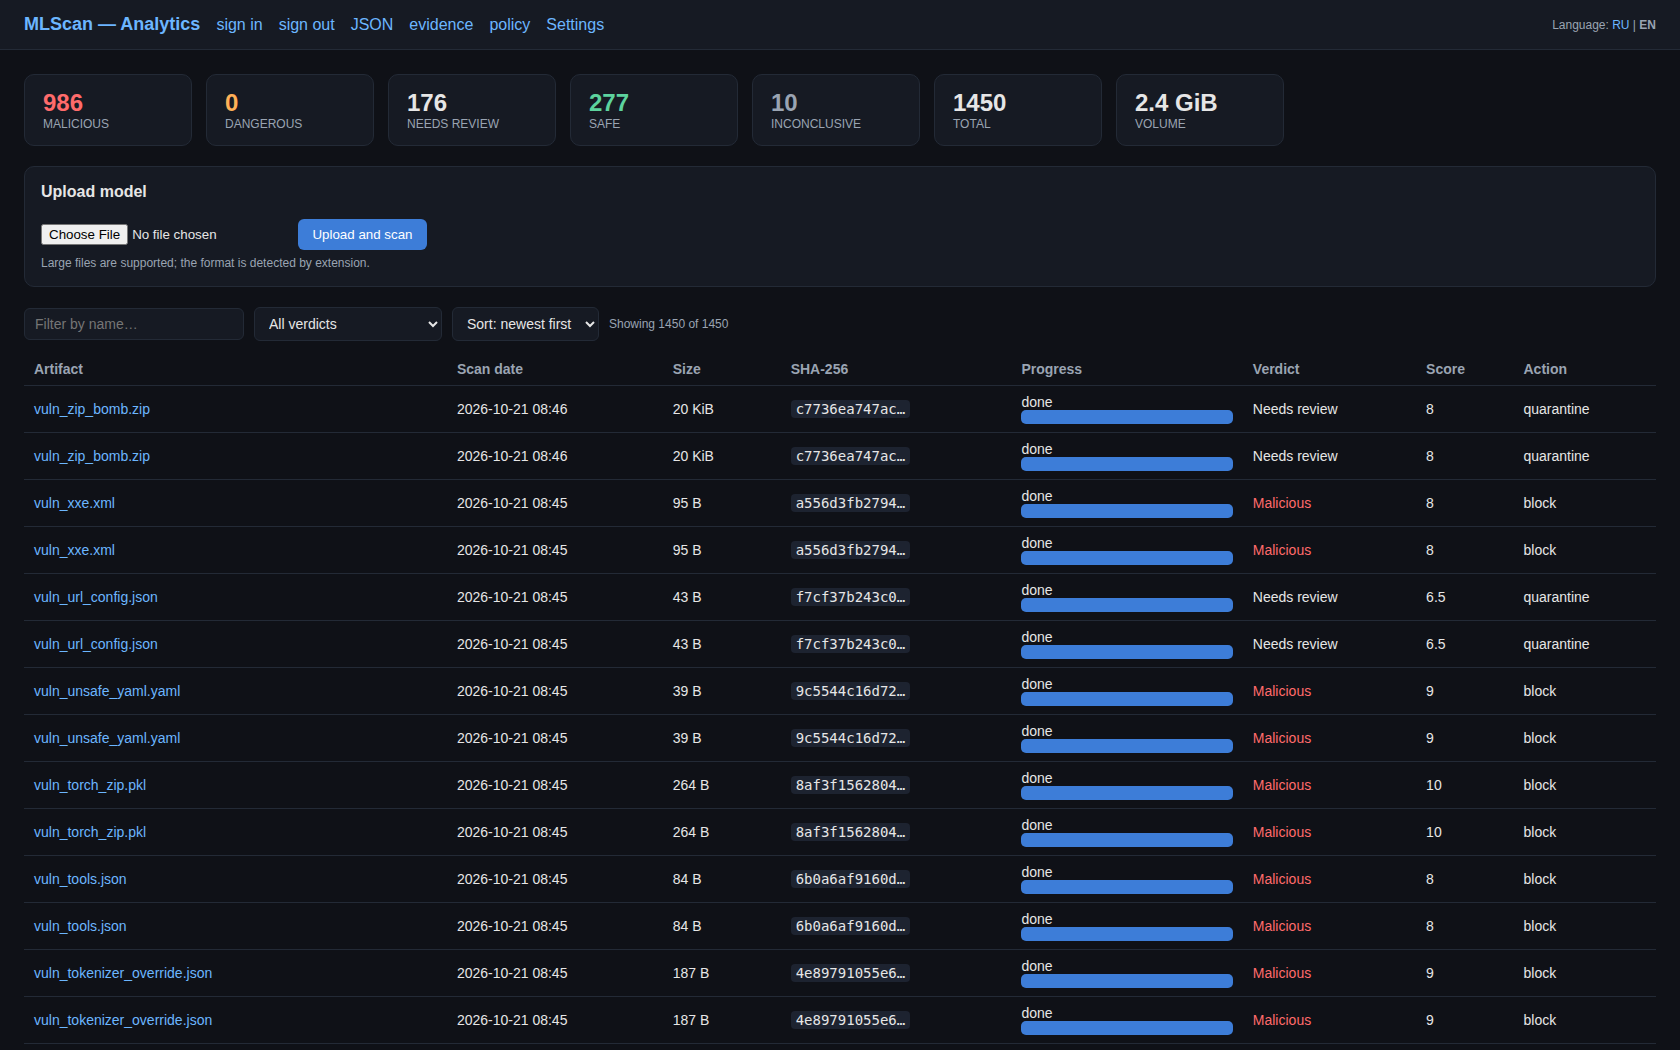
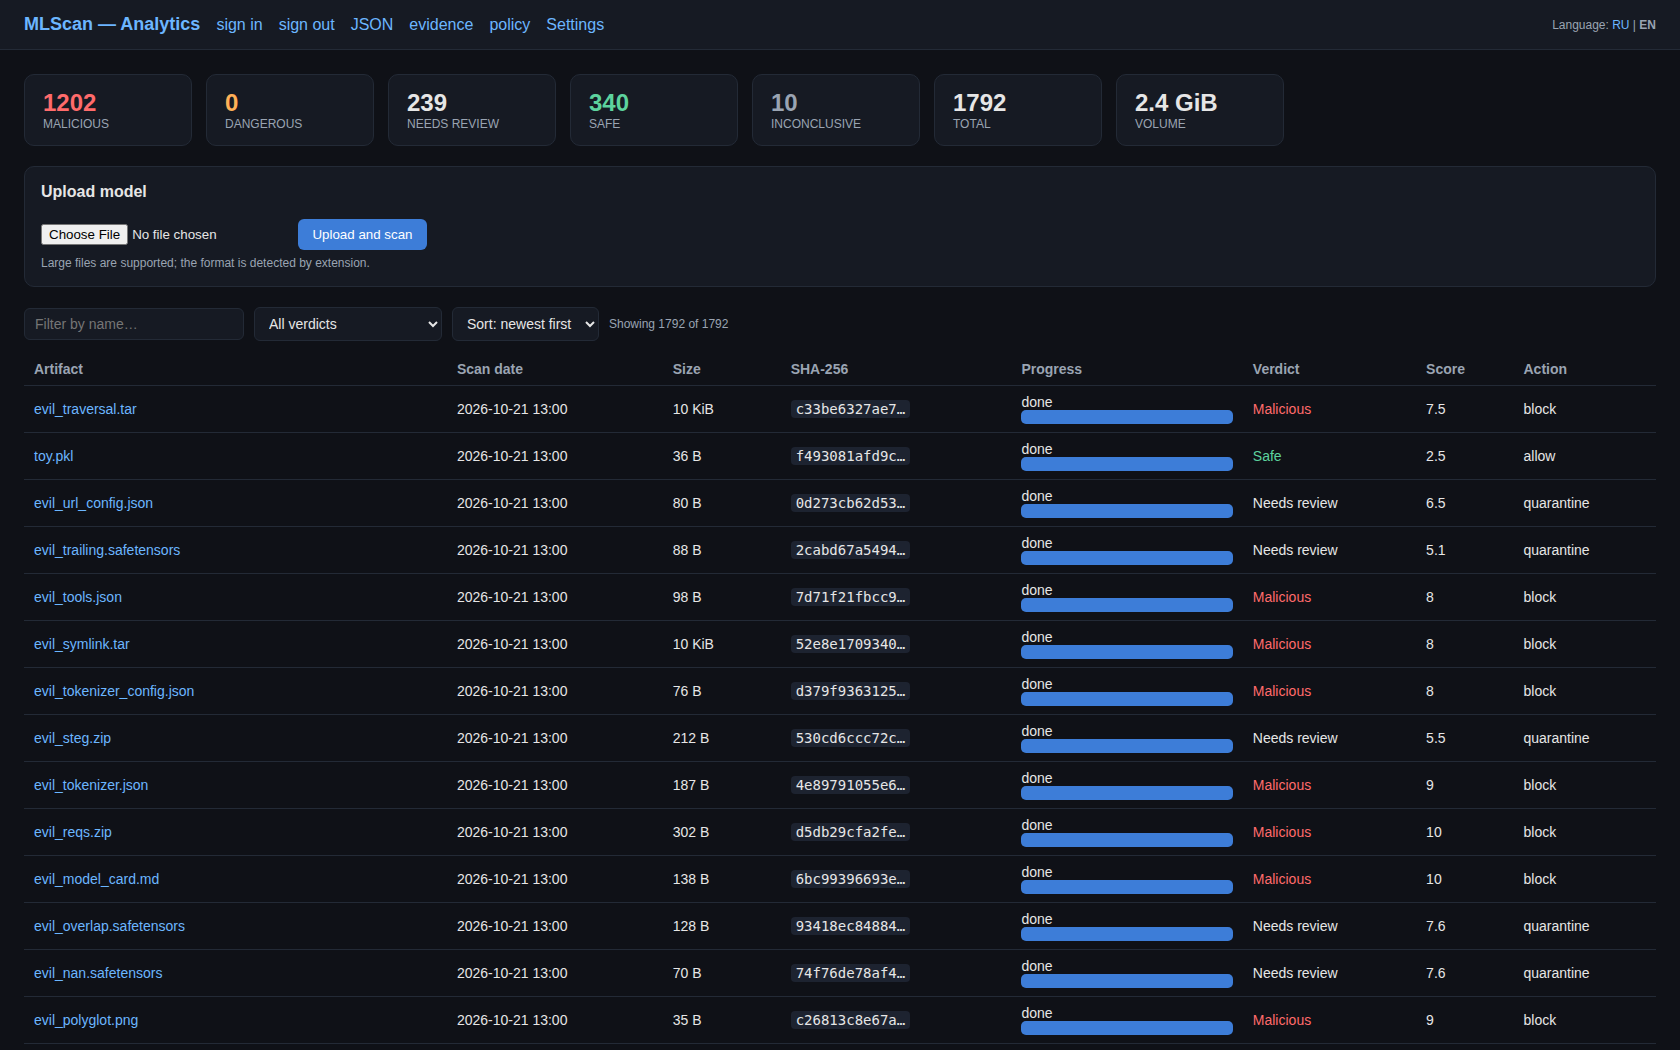
fix(ui): dashboard scan list could appear empty — cache dashboard queries and render incrementally
Root cause: analytics /api/stats called overview() three times, and every overview() call hit
the testing service /scans (which re-read all ~1790 scan JSON files on each request), so /api/stats
took ~28 s (overview ~7 s). The dashboard JS rendered the table only after BOTH requests finished,
so the test list stayed empty for ~35 s in any language and looked broken.

- testing: TTL cache for list_scans() (30 s, invalidated in save_scan) -> /scans and /stats 40 ms.
- analytics: /api/overview and /api/stats results cached for 5 s (invalidated on evidence append);
  stats() now calls overview() once instead of three times -> /api/stats 28.4 s -> 0.03 s,
  /api/overview 6.6 s -> 0.07 s.
- UI: table rows rendered as soon as /api/overview returns, stat cards after /api/stats (separate
  requests), local filtering/sorting without refetch, self-scheduling 5 s poll, explicit
  Loading…/No data states (i18n keys dash.loading/dash.empty).
- Screenshots: dashboards (RU and EN) re-captured with the full list (1792 of 1792 rows).
- docs 07 (RU/EN): note on dashboard caching/rendering.

diff --git a/deploy/stage3/service/mlscan_analytics.py b/deploy/stage3/service/mlscan_analytics.py
@@ -140,10 +140,17 @@ def progress_of(scan_id: str) -> dict | None:
 
 
 def testing_stats() -> dict:
+    now = time.time()
+    cached = _dash_cache["testing"]
+    if cached is not None and (now - _dash_cache["ts"]) < _DASH_TTL:
+        return cached
     try:
-        return http_get_json(TESTING_URL + "/stats", timeout=10)
+        st = http_get_json(TESTING_URL + "/stats", timeout=30)
     except Exception:  # noqa: BLE001
-        return {}
+        st = {}
+    _dash_cache["testing"] = st
+    _dash_cache["ts"] = time.time()
+    return st
 
 
 # ----------------------------------------------------------------------------
@@ -209,6 +216,12 @@ _lock = threading.Lock()
 _index: dict[str, dict] = {}
 _last_hash = "GENESIS"
 
+# Кэш данных дашборда: /api/overview и /api/stats обращаются к сервису тестирования
+# (чтение тысяч файлов сканов), поэтому результаты кэшируются на 5 с; инвалидация —
+# при записи нового скана в evidence и по TTL.
+_dash_cache: dict = {"ts": 0.0, "overview": None, "testing": None}
+_DASH_TTL = 5.0
+
 
 def _load_store() -> None:
     global _last_hash
@@ -251,6 +264,7 @@ def _append(record: dict) -> dict:
             fh.write(json.dumps({"prev": prev, "hash": h, "record": record}, ensure_ascii=False) + "\n")
         _last_hash = h
         _index[record["scan_id"]] = record
+        _dash_cache["overview"] = None
         _db_append(record, prev, h, payload)
         return {"prev": prev, "hash": h}
 
@@ -370,8 +384,12 @@ def poller() -> None:
 
 
 def overview() -> list[dict]:
+    now = time.time()
+    cached = _dash_cache["overview"]
+    if cached is not None and (now - _dash_cache["ts"]) < _DASH_TTL:
+        return cached
     try:
-        scans = http_get_json(TESTING_URL + "/scans").get("scans", [])
+        scans = http_get_json(TESTING_URL + "/scans", timeout=60).get("scans", [])
     except Exception:  # noqa: BLE001
         scans = []
     known = set()
@@ -391,17 +409,20 @@ def overview() -> list[dict]:
                         "risk_score": (rid.get("score") or {}).get("risk_score"),
                         "policy_action": (rid.get("policy") or {}).get("action"),
                         "created": rid.get("created")})
+    _dash_cache["overview"] = out
+    _dash_cache["ts"] = time.time()
     return out
 
 
 def stats() -> dict:
+    ov = overview()                      # один вызов вместо трёх
     verdicts: dict[str, int] = {}
     total = 0
-    for s in overview():
+    for s in ov:
         if s.get("verdict"):
             verdicts[s["verdict"]] = verdicts.get(s["verdict"], 0) + 1
         total += int(s.get("size") or 0)
-    return {"scans": len(overview()), "by_verdict": verdicts,
+    return {"scans": len(ov), "by_verdict": verdicts,
             "total_bytes": total, "testing": testing_stats()}
 
 
@@ -521,22 +542,34 @@ def _page(title: str, body: str, script: str = "", lang: str = "ru",
 
 
 def _js(lang: str) -> str:
+    """Клиентский скрипт дашборда: таблица рисуется сразу после /api/overview,
+    статистика — отдельным (параллельным) запросом /api/stats."""
     labels = {
         "total": T("dash.total", lang),
         "volume": T("dash.volume", lang),
         "shown": T("dash.shown", lang, n="{n}", m="{m}"),
+        "empty": T("dash.empty", lang),
         "upload_error": T("dash.upload_error", lang),
+        "verdicts": ["Malicious", "Dangerous", "Needs review", "Safe", "Inconclusive"],
     }
     return """<script>
 const L = __LABELS__;
+let OV=[];
 function fmtBytes(b){b=+b||0;const u=['B','KiB','MiB','GiB'];let i=0;while(b>=1024&&i<u.length-1){b/=1024;i++;}return b.toFixed(b<10&&i>0?1:0)+' '+u[i];}
 function esc(s){return (s==null?'':String(s)).replace(/[&<>]/g,c=>({'&':'&amp;','<':'&lt;','>':'&gt;'}[c]));}
 function shortDate(s){if(!s)return '—';s=String(s).replace('T',' ');return s.slice(0,16);}
-function currentRows(ov){
+function renderCards(st){
+  document.getElementById('cards').innerHTML =
+    L.verdicts.map(v=>
+      `<div class="card"><div class="n v-${v.replace(' ','')}">${(st.by_verdict||{})[v]||0}</div><div class="l">${v}</div></div>`).join('')
+    + `<div class="card"><div class="n">${st.scans||0}</div><div class="l">${esc(L.total)}</div></div>`
+    + `<div class="card"><div class="n">${fmtBytes(st.total_bytes)}</div><div class="l">${esc(L.volume)}</div></div>`;
+}
+function currentRows(){
   const q=(document.getElementById('q').value||'').trim().toLowerCase();
   const vf=document.getElementById('vf').value;
   const sort=document.getElementById('sort').value;
-  let rows=ov.filter(r=>{
+  let rows=OV.filter(r=>{
     if(q && !String(r.name||'').toLowerCase().includes(q)) return false;
     if(vf){const v=r.verdict||'';if(vf==='__none__'){if(v!=='')return false;}else if(v!==vf)return false;}
     return true;
@@ -546,27 +579,34 @@ function currentRows(ov){
   else rows.sort((a,b)=>String(a.created||a.updated||'').localeCompare(String(b.created||b.updated||''))*dir);
   return rows;
 }
-async function refresh(){
-  const ov=(await (await fetch('/api/overview')).json()).scans||[];
-  const st=await (await fetch('/api/stats')).json();
-  document.getElementById('cards').innerHTML =
-    ['Malicious','Dangerous','Needs review','Safe','Inconclusive'].map(v=>
-      `<div class="card"><div class="n v-${v.replace(' ','')}">${(st.by_verdict||{})[v]||0}</div><div class="l">${v}</div></div>`).join('')
-    + `<div class="card"><div class="n">${st.scans||0}</div><div class="l">${esc(L.total)}</div></div>`
-    + `<div class="card"><div class="n">${fmtBytes(st.total_bytes)}</div><div class="l">${esc(L.volume)}</div></div>`;
-  const shown=currentRows(ov);
-  const rows=shown.map(r=>{
-    const v=r.verdict||'';
-    return `<tr><td><a href="/artifact/${r.scan_id}">${esc(r.name)}</a></td>`
-      +`<td>${shortDate(r.created||r.updated)}</td>`
-      +`<td>${fmtBytes(r.size)}</td><td><code>${(r.sha256||'').slice(0,12)}…</code></td>`
-      +`<td>${esc(r.state)}${r.stage&&r.stage!=='done'?' / '+esc(r.stage):''}<div class="pbar"><span style="width:${r.progress||0}%"></span></div></td>`
-      +`<td class="v-${String(v).replace(' ','')}">${esc(v||'—')}</td>`
-      +`<td>${r.risk_score!=null?r.risk_score:'—'}</td><td>${esc(r.policy_action||'—')}</td></tr>`;}).join('');
-  document.getElementById('rows').innerHTML=rows;
-  document.getElementById('count').textContent=L.shown.replace('{n}',shown.length).replace('{m}',ov.length);
+function renderRows(){
+  const shown=currentRows();
+  document.getElementById('rows').innerHTML = shown.length
+    ? shown.map(r=>{
+        const v=r.verdict||'';
+        return `<tr><td><a href="/artifact/${r.scan_id}">${esc(r.name)}</a></td>`
+          +`<td>${shortDate(r.created||r.updated)}</td>`
+          +`<td>${fmtBytes(r.size)}</td><td><code>${(r.sha256||'').slice(0,12)}…</code></td>`
+          +`<td>${esc(r.state)}${r.stage&&r.stage!=='done'?' / '+esc(r.stage):''}<div class="pbar"><span style="width:${r.progress||0}%"></span></div></td>`
+          +`<td class="v-${String(v).replace(' ','')}">${esc(v||'—')}</td>`
+          +`<td>${r.risk_score!=null?r.risk_score:'—'}</td><td>${esc(r.policy_action||'—')}</td></tr>`;}).join('')
+    : `<tr><td colspan="8" style="color:#9aa4b2">${esc(L.empty)}</td></tr>`;
+  document.getElementById('count').textContent=L.shown.replace('{n}',shown.length).replace('{m}',OV.length);
 }
-['q','vf','sort'].forEach(id=>{const e=document.getElementById(id);e.addEventListener('input',refresh);e.addEventListener('change',refresh);});
+async function refresh(){
+  // 1) список сканов -> сразу отрисовываем таблицу
+  try{
+    const r=await fetch('/api/overview',{cache:'no-store'});
+    if(r.ok){ OV=(await r.json()).scans||[]; renderRows(); }
+  }catch(e){}
+  // 2) агрегаты -> отдельно обновляем карточки
+  try{
+    const r2=await fetch('/api/stats',{cache:'no-store'});
+    if(r2.ok) renderCards(await r2.json());
+  }catch(e){}
+}
+['q','vf','sort'].forEach(id=>{const e=document.getElementById(id);
+  e.addEventListener('input',renderRows);e.addEventListener('change',renderRows);});
 document.getElementById('f').addEventListener('submit',e=>{
   e.preventDefault();const file=document.querySelector('input[type=file]').files[0];if(!file)return;
   const ext=(file.name.split('.').pop()||'').toLowerCase();
@@ -582,7 +622,8 @@ document.getElementById('f').addEventListener('submit',e=>{
   xhr.onerror=()=>{alert(L.upload_error);};
   xhr.send(file);
 });
-refresh();setInterval(refresh,3000);
+async function loop(){ await refresh(); setTimeout(loop,5000); }
+loop();
 </script>""".replace("__LABELS__", json.dumps(labels, ensure_ascii=False))
 
 
@@ -632,7 +673,8 @@ def ui_index(lang: str = "ru", roles: list | None = None) -> bytes:
             f"<th>{T('dash.col.date', lang)}</th><th>{T('dash.col.size', lang)}</th><th>SHA-256</th>"
             f"<th>{T('dash.col.progress', lang)}</th><th>{T('dash.col.verdict', lang)}</th>"
             f"<th>{T('dash.col.score', lang)}</th><th>{T('dash.col.action', lang)}</th></tr></thead>"
-            "<tbody id='rows'></tbody></table>")
+            f"<tbody id='rows'><tr><td colspan='8' style='color:#9aa4b2'>"
+            f"{T('dash.loading', lang)}</td></tr></tbody></table>")
     return _page(T("ui.overview", lang), body, _js(lang), lang=lang, roles=roles)
 
 

diff --git a/deploy/stage2/service/mlscan_testing.py b/deploy/stage2/service/mlscan_testing.py
@@ -126,6 +126,11 @@ _token = open(os.path.join(SA_DIR, "token")).read().strip()
 
 _lock = threading.Lock()
 
+# Кэш списка сканов: чтение тысяч JSON-файлов на каждый запрос дорого (дашборд опрашивает
+# /scans и /stats часто). TTL 5 с; сбрасывается при сохранении нового скана.
+_scans_cache: dict = {"ts": 0.0, "data": None}
+_SCANS_TTL = 30.0   # кэш списка сканов; сбрасывается при записи (save_scan)
+
 
 # ----------------------------------------------------------------------------
 # Kubernetes API
@@ -162,6 +167,7 @@ def save_scan(rec: dict) -> None:
     with open(tmp, "w") as fh:
         json.dump(rec, fh, ensure_ascii=False)
     os.replace(tmp, os.path.join(store_dir(), rec["scan_id"] + ".json"))
+    _invalidate_scans_cache()
 
 
 def load_scan(scan_id: str) -> dict | None:
@@ -186,7 +192,19 @@ def update(scan_id: str, **fields) -> None:
         save_scan(rec)
 
 
+def _invalidate_scans_cache() -> None:
+    with _lock:
+        _scans_cache["data"] = None
+        _scans_cache["ts"] = 0.0
+
+
 def list_scans() -> list[dict]:
+    now = time.time()
+    with _lock:
+        cached = _scans_cache["data"]
+        fresh = cached is not None and (now - _scans_cache["ts"]) < _SCANS_TTL
+    if fresh:
+        return cached
     out = []
     for fn in sorted(os.listdir(store_dir()), reverse=True):
         if not fn.endswith(".json"):
@@ -198,6 +216,9 @@ def list_scans() -> list[dict]:
             continue
         out.append({k: r.get(k) for k in ("scan_id", "name", "size", "sha256", "state",
                                           "stage", "progress", "verdict", "created", "updated")})
+    with _lock:
+        _scans_cache["data"] = out
+        _scans_cache["ts"] = time.time()
     return out
 
 

diff --git a/deploy/i18n/i18n.py b/deploy/i18n/i18n.py
@@ -96,6 +96,8 @@ CATALOG: dict[str, dict[str, str]] = {
     "dash.volume": {"ru": "Объём", "en": "Volume"},
     "dash.shown": {"ru": "Показано: {n} из {m}", "en": "Showing {n} of {m}"},
     "dash.upload_error": {"ru": "Ошибка загрузки", "en": "Upload error"},
+    "dash.loading": {"ru": "Загрузка…", "en": "Loading…"},
+    "dash.empty": {"ru": "Нет данных", "en": "No data"},
     # --- карточка артефакта
     "art.back": {"ru": "← к обзору", "en": "← back to overview"},
     "art.size": {"ru": "Размер", "en": "Size"},

diff --git a/docs/07-implemented-architecture.md b/docs/07-implemented-architecture.md
@@ -110,6 +110,11 @@ Per-scan ConfigMap-транспорт больше не используется
 | PVC `mlscan-analytics-data` | hostpath 1Gi | `/data/evidence.jsonl` (hash-chain) |
 | ConfigMap `mlscan-analytics-code`, `mlscan-policy`, `mlscan-authz`, `mlscan-pgclient`, `mlscan-i18n` | — | код движка, `policy.json`, аутентификация/авторизация, PG-клиент, локализация |
 
+Производительность дашборда: выборки, обращающиеся к сервису тестирования (`/api/overview`,
+`/api/stats`), кэшируются в аналитике на 5 с (кэш сервиса тестирования — 30 с со сбросом при
+записи нового скана). UI рисует таблицу сразу после `/api/overview`, а карточки статистики —
+после отдельного `/api/stats`, поэтому список сканов отображается через ~0.2 с.
+
 ### 2.5 `mlscan-integrations` — интеграции (Этап 4)
 
 | Объект | Тип | Назначение |

diff --git a/docs/en/07-implemented-architecture.md b/docs/en/07-implemented-architecture.md
@@ -112,6 +112,11 @@ one-time token. The per-scan ConfigMap transport is no longer used.
 | PVC `mlscan-analytics-data` | hostpath 1Gi | `/data/evidence.jsonl` (hash-chain) |
 | ConfigMap `mlscan-analytics-code`, `mlscan-policy`, `mlscan-authz`, `mlscan-pgclient`, `mlscan-i18n` | — | engine code, `policy.json`, authentication/authorization, PG client, localisation |
 
+Dashboard performance: queries that reach the testing service (`/api/overview`, `/api/stats`)
+are cached in analytics for 5 s (the testing service cache is 30 s and is invalidated when a new
+scan is written). The UI renders the table as soon as `/api/overview` returns and the statistic
+cards after the separate `/api/stats`, so the scan list appears in ~0.2 s.
+
 ### 2.5 `mlscan-integrations` — integrations (Stage 4)
 
 | Object | Type | Purpose |
